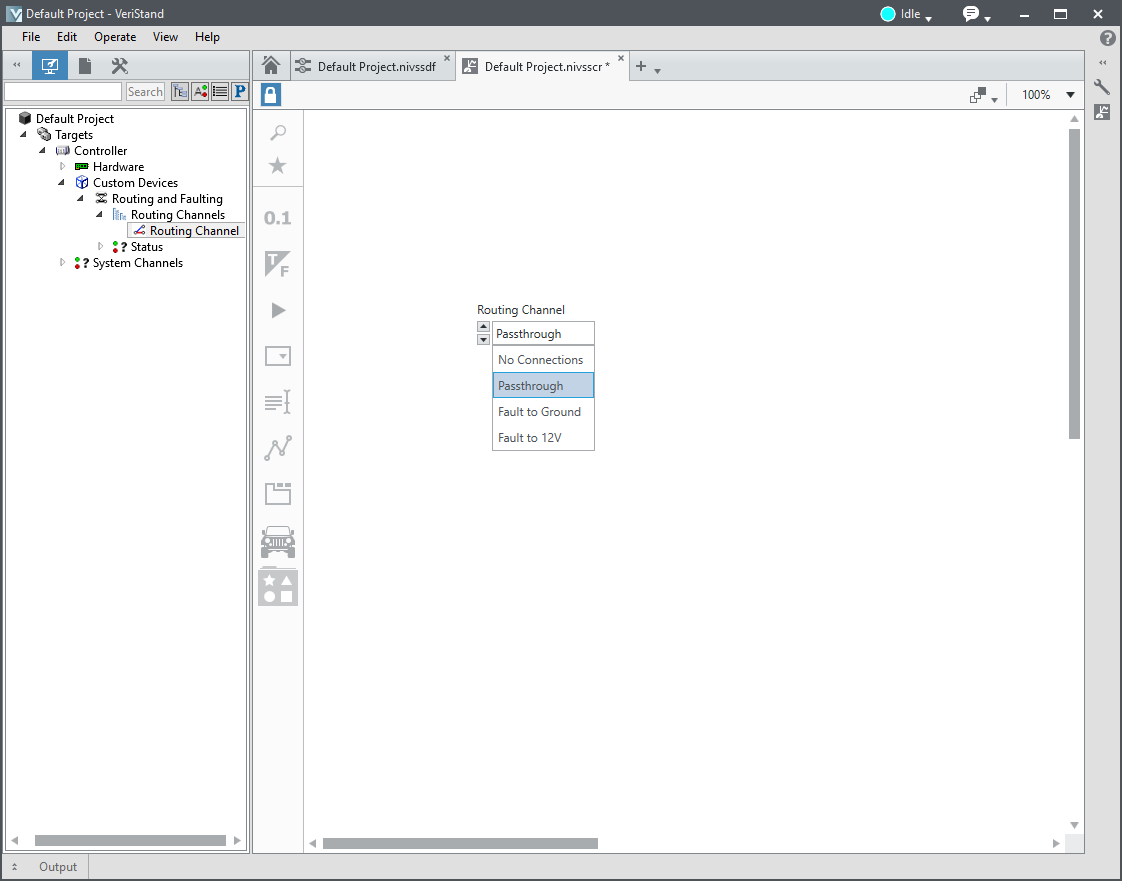
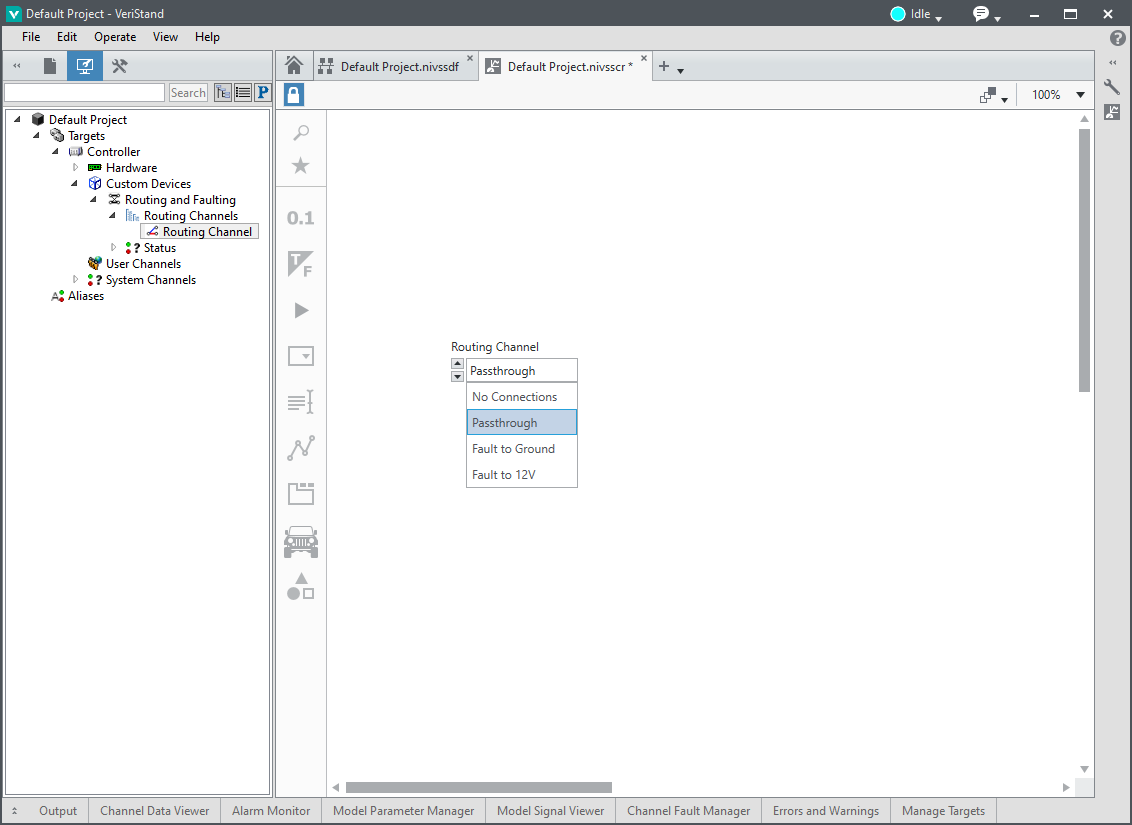
Add minimal NI-SWITCH section to user guide
Also regenerate screenshots that use the old VeriStand logo.

diff --git a/Docs/User Guide.md b/Docs/User Guide.md
@@ -47,6 +47,20 @@ Use SLSC Switch 20.0.1 or newer to apply the reservation group. If you use SLSC 
 
 By default the reservation group for the SLSC Switch Custom Device is the path to the module in the system definition file. Use the scripting API to update this value.
 
+## NI-SWITCH Custom Device
+
+The **NI-SWITCH Custom Device** is a VeriStand add-on that supports NI-SWITCH PXI routing modules.
+
+NI-SWITCH routing modules are displayed in the VeriStand System Explorer under _Targets >> Controller >> Custom Devices_.
+
+The following image displays this location.
+
+![NI-SWITCH System Explorer](Support/NI-SWITCH%20System%20Explorer.png)
+
+The NI-SWITCH custom device supports the same endpoint configuration options as the SLSC Switch custom device.
+
+_NOTE: Configure the NI-SWITCH Custom Device before configuring the Routing and Faulting Custom Device._
+
 ## Routing and Faulting Custom Device
 
 The **Routing and Faulting Custom Device** is a VeriStand add-on that configures aliases and routing channels. By default, routing channels are not added. Add routing channels for each controllable collection of connections.
